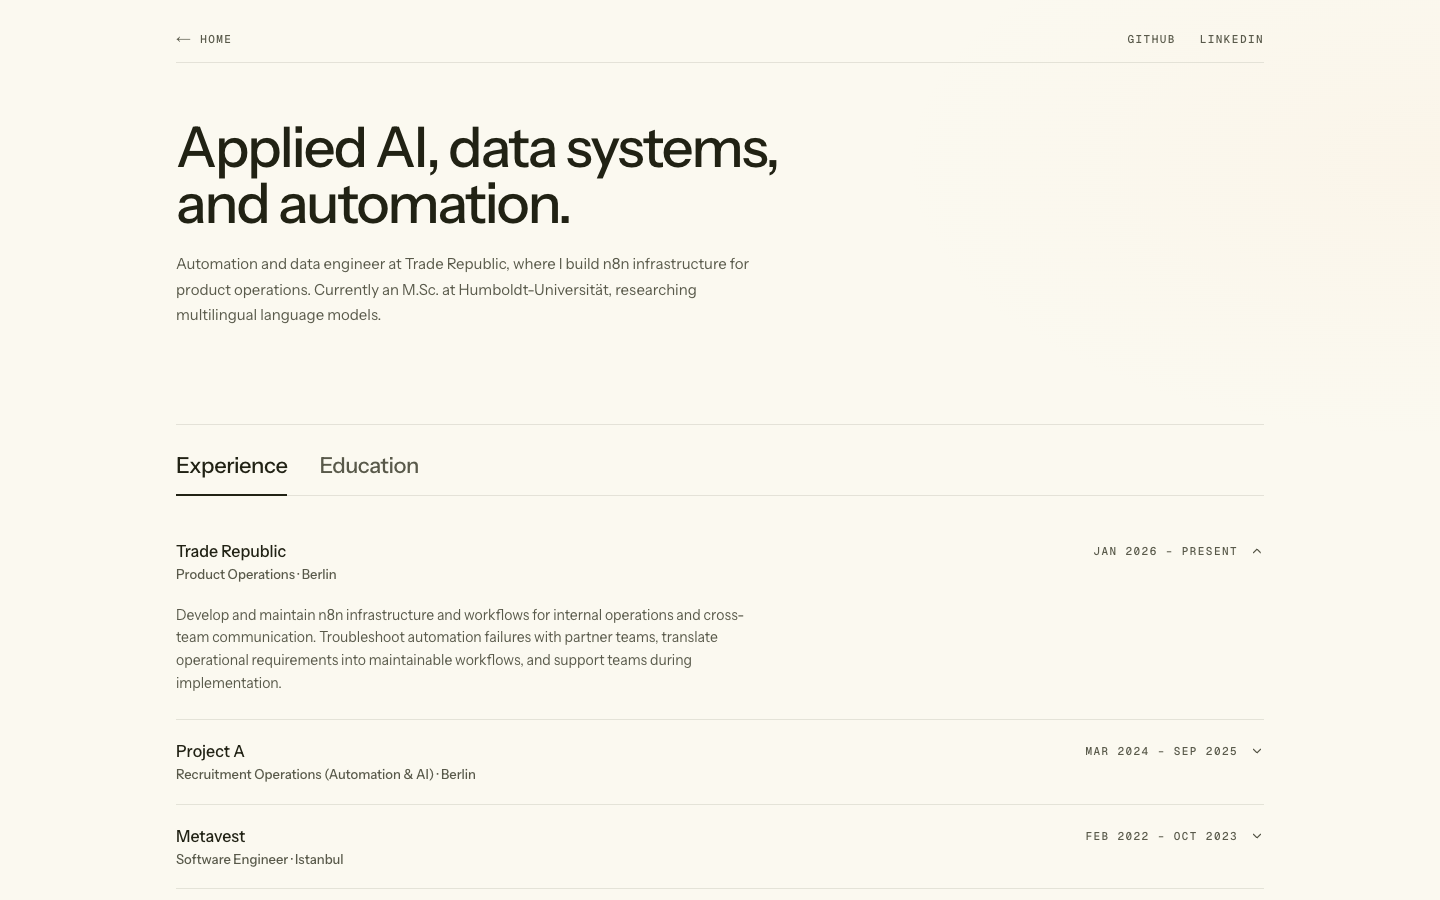
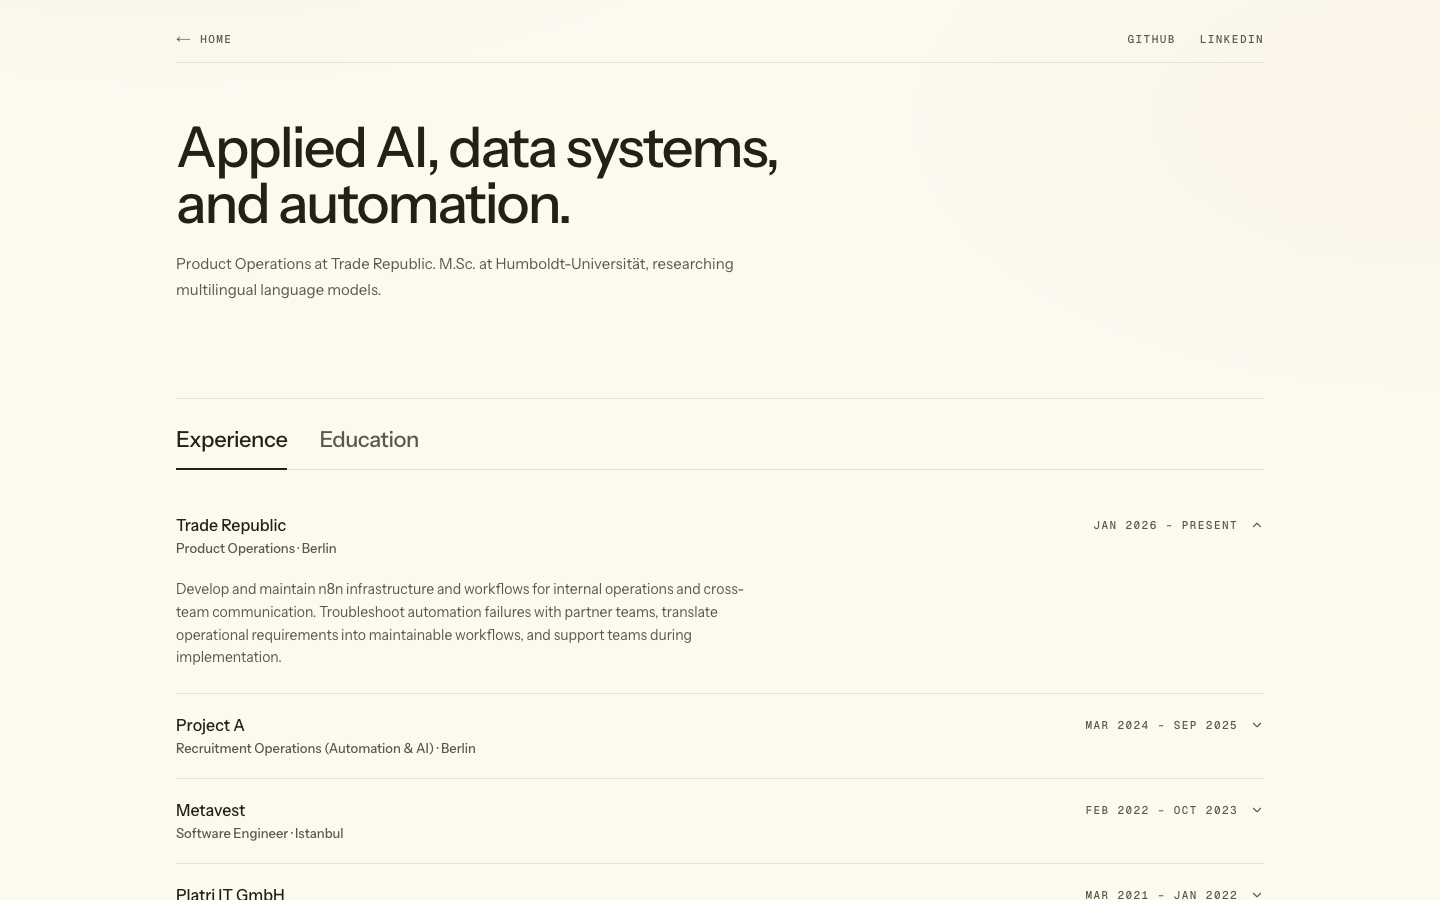
Trim the portfolio: fewer projects, collapsed archive, no stack or contact heading

diff --git a/src/components/section/contact-section.tsx b/src/components/section/contact-section.tsx
@@ -13,42 +13,35 @@ export default function ContactSection() {
   });
 
   return (
-    <section className="mt-20 border-t border-border/80 pt-8 sm:mt-32">
-      <h2 className="max-w-[14ch] text-[clamp(2.75rem,6vw,4.5rem)] font-medium leading-[0.98] tracking-[-0.04em]">
-        {data.portfolio.contact.title}
-      </h2>
+    <section className="mt-14 border-t border-border/80 pt-6 sm:mt-20">
+      <h2 className="sr-only">Contact</h2>
+      <div className="flex flex-col gap-5 sm:flex-row sm:items-baseline sm:justify-between">
+        <Link
+          href={`mailto:${data.contact.email}`}
+          className="w-fit text-[clamp(1.35rem,3vw,2rem)] leading-none tracking-[-0.02em] underline decoration-muted-foreground/40 decoration-1 underline-offset-[6px] transition-colors hover:decoration-foreground"
+        >
+          {data.contact.email}
+        </Link>
 
-      {data.portfolio.contact.description ? (
-        <p className="mt-5 max-w-[40ch] text-[15px] leading-relaxed text-muted-foreground">
-          {data.portfolio.contact.description}
-        </p>
-      ) : null}
-
-      <Link
-        href={`mailto:${data.contact.email}`}
-        className="mt-8 inline-block text-[clamp(1.25rem,2.8vw,1.75rem)] leading-none tracking-[-0.02em] underline decoration-muted-foreground/40 decoration-1 underline-offset-[6px] transition-colors hover:decoration-foreground"
-      >
-        {data.contact.email}
-      </Link>
-
-      <div className="mt-10 flex flex-wrap items-center gap-x-3 gap-y-1">
-        {socials.map((social, index) => (
-          <span key={social.name} className="flex items-center gap-3">
-            {index > 0 ? (
-              <span aria-hidden className="text-border">
-                /
-              </span>
-            ) : null}
-            <Link
-              href={social.url}
-              target={isExternal(social.url) ? "_blank" : undefined}
-              rel={isExternal(social.url) ? "noopener noreferrer" : undefined}
-              className="mono-label text-muted-foreground underline-offset-4 transition-colors hover:text-foreground hover:underline"
-            >
-              {social.name}
-            </Link>
-          </span>
-        ))}
+        <div className="flex flex-wrap items-center gap-x-3 gap-y-1">
+          {socials.map((social, index) => (
+            <span key={social.name} className="flex items-center gap-3">
+              {index > 0 ? (
+                <span aria-hidden className="text-border">
+                  /
+                </span>
+              ) : null}
+              <Link
+                href={social.url}
+                target={isExternal(social.url) ? "_blank" : undefined}
+                rel={isExternal(social.url) ? "noopener noreferrer" : undefined}
+                className="mono-label text-muted-foreground underline-offset-4 transition-colors hover:text-foreground hover:underline"
+              >
+                {social.name}
+              </Link>
+            </span>
+          ))}
+        </div>
       </div>
     </section>
   );

diff --git a/src/components/section/projects-section.tsx b/src/components/section/projects-section.tsx
@@ -1,5 +1,5 @@
 import Link from "next/link";
-import { ArrowUpRight } from "lucide-react";
+import { ArrowUpRight, ChevronDown } from "lucide-react";
 import { ProjectRow } from "@/components/project-row";
 import { SectionHeading } from "@/components/section-heading";
 import { getPortfolioData } from "@/data/portfolio";
@@ -64,15 +64,23 @@ export default function ProjectsSection() {
         </div>
       ) : null}
 
-      <div className="mt-10">
-        <h3 className="text-[18px] font-medium tracking-[-0.02em]">
-          {data.portfolio.earlierProjects.title}
-        </h3>
+      <details className="group mt-10 border-t border-border/80 pt-4">
+        <summary className="flex cursor-pointer list-none items-baseline justify-between gap-4 [&::-webkit-details-marker]:hidden">
+          <h3 className="text-[18px] font-medium tracking-[-0.02em]">
+            {data.portfolio.earlierProjects.title}
+          </h3>
+          <ChevronDown
+            aria-hidden
+            className="size-3.5 shrink-0 text-muted-foreground transition-transform duration-200 group-open:rotate-180"
+          />
+        </summary>
+
         {data.portfolio.earlierProjects.description ? (
           <p className="mt-1 max-w-[52ch] text-[13px] leading-relaxed text-muted-foreground">
             {data.portfolio.earlierProjects.description}
           </p>
         ) : null}
+
         <div className="mt-4 grid gap-x-12 sm:grid-cols-2">
           {data.earlierProjects.map((project) => (
             <Link
@@ -95,7 +103,7 @@ export default function ProjectsSection() {
             </Link>
           ))}
         </div>
-      </div>
+      </details>
     </section>
   );
 }

diff --git a/src/data/schema.ts b/src/data/schema.ts
@@ -115,8 +115,7 @@ export const portfolioSchema = z
       }),
       openSource: sectionCopySchema,
       earlierProjects: sectionCopySchema,
-      skills: sectionCopySchema,
-      contact: sectionCopySchema.extend({
+      contact: z.object({
         socials: z.array(text),
       }),
     }),
@@ -129,12 +128,6 @@ export const portfolioSchema = z
         })
       ),
     }),
-    skills: z.array(
-      z.object({
-        name: text,
-        group: optionalText,
-      })
-    ),
     work: z.array(
       z.object({
         company: text,
@@ -251,4 +244,3 @@ export type PortfolioData = z.infer<typeof portfolioSchema>;
 export type WorkItem = PortfolioData["work"][number];
 export type EducationItem = PortfolioData["education"][number];
 export type ProjectItem = PortfolioData["projects"][number];
-export type SkillItem = PortfolioData["skills"][number];

diff --git a/src/app/portfolio/page.tsx b/src/app/portfolio/page.tsx
@@ -2,7 +2,6 @@ import type { Metadata } from "next";
 import ContactSection from "@/components/section/contact-section";
 import ExperienceEducationSection from "@/components/section/experience-education-section";
 import ProjectsSection from "@/components/section/projects-section";
-import SkillsSection from "@/components/section/skills-section";
 import { SiteFooter } from "@/components/site-footer";
 import { SiteHeader } from "@/components/site-header";
 import { getPortfolioData } from "@/data/portfolio";
@@ -72,8 +71,6 @@ export default function PortfolioPage() {
         />
 
         <ProjectsSection />
-
-        <SkillsSection />
 
         <ContactSection />
       </main>

diff --git a/README.md b/README.md
@@ -20,8 +20,8 @@ Next.js 16 · React 19 · Tailwind CSS 4 · TypeScript · Zod · MIT
   defined as CSS tokens. Light mode only, by design.
 - Instrument Sans for text and Geist Mono for metadata, loaded with
   `next/font/google`.
-- Skills grouped by `group`, compact role titles via `shortTitle`, and a factual
-  highlight per project via `metric`.
+- Compact role titles via `shortTitle` and a factual highlight per project via
+  `metric`.
 - Server-rendered Markdown in project descriptions (`react-markdown`).
 - Motion is CSS only, with no animation library and full
   `prefers-reduced-motion` support.
@@ -164,8 +164,6 @@ Every name in `home.featuredSocials` must match a `contact.socials[].name`.
 | `portfolio.openSource.description` | No | Optional open-source section intro. |
 | `portfolio.earlierProjects.title` | Yes | Earlier-work section heading. |
 | `portfolio.earlierProjects.description` | No | Optional section intro. |
-| `portfolio.skills.title` | Yes | Skills section heading. |
-| `portfolio.skills.description` | No | Optional section intro. |
 | `portfolio.contact.title` | Yes | Contact section heading. |
 | `portfolio.contact.description` | No | Optional contact line. |
 | `portfolio.contact.socials` | Yes | List of `contact.socials[].name` values for the contact section. |
@@ -179,15 +177,6 @@ Every name in `home.featuredSocials` must match a `contact.socials[].name`.
 | `contact.socials[].url` | Yes | Profile URL, `mailto:`, `tel:`, or root-relative path. |
 
 Names must be unique. Referenced names that do not exist fail validation.
-
-### `skills`
-
-| Key | Required | Description |
-| --- | --- | --- |
-| `skills[].name` | Yes | Skill or tool name. |
-| `skills[].group` | No | Group heading, such as `Frontend`. Ungrouped skills fall back to `Skills`. |
-
-Groups render in the order they first appear, so keep related skills adjacent.
 
 ### `work`
 
@@ -328,7 +317,7 @@ src/
     globals.css                 Tailwind 4 theme and tokens
     fonts.ts                    Instrument Sans + Geist Mono
   components/
-    section/                    Experience/education, projects, skills, contact
+    section/                    Experience/education, projects, contact
     ui/                         shadcn/ui primitives
   data/
     schema.ts                   Zod content schema

diff --git a/AGENTS.md b/AGENTS.md
@@ -23,8 +23,8 @@ to customize the site from a CV, resume, LinkedIn export, or a short personal br
 
 1. Read the supplied CV or resume completely.
 2. Read `content/portfolio.yaml` and `src/data/schema.ts` before editing.
-3. Replace the example identity, contact details, experience, education, skills,
-   and projects with evidence from the supplied material.
+3. Replace the example identity, contact details, experience, education, and
+   projects with evidence from the supplied material.
 4. Prioritize recent, technically substantial work. Move older work to
    `earlierProjects` when it is still useful but should not dominate the page.
 5. Preserve measurable results exactly. Do not invent dates, metrics, employers,
@@ -46,9 +46,6 @@ to customize the site from a CV, resume, LinkedIn export, or a short personal br
 - Keep social names referenced by `home.featuredSocials`,
   `portfolio.headerSocials`, and `portfolio.contact.socials` synchronized with
   `contact.socials[].name`.
-- Use `skills[].group` to create readable headings such as `Frontend` or
-  `Data & backend`. Ungrouped skills fall back to a single `Skills` group. Keep
-  related skills adjacent; groups render in first-appearance order.
 - Use `work[].shortTitle` only as a shortened form of `work[].title` for the
   collapsed accordion row. It is optional and falls back to the full title. Do not
   use it to change the role.
